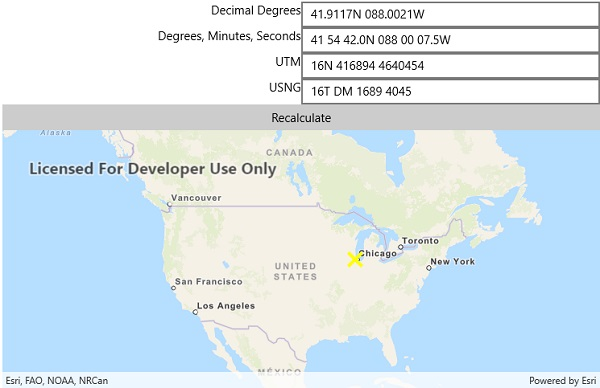
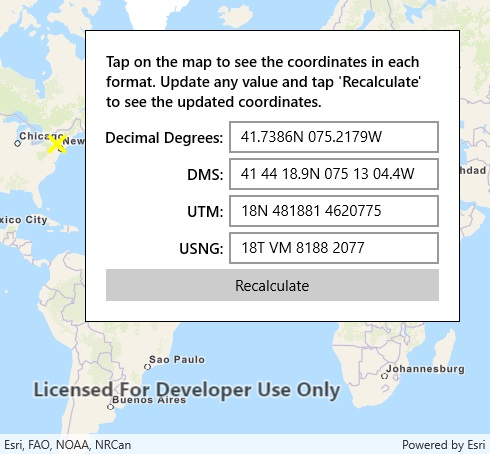
Format coordinates
Changes:

* Improved form alignment.
* Moved controls to a form.
* Added a help label.
* Reformatted XAML.

diff --git a/src/UWP/ArcGISRuntime.UWP.Viewer/Samples/Geometry/FormatCoordinates/FormatCoordinates.xaml b/src/UWP/ArcGISRuntime.UWP.Viewer/Samples/Geometry/FormatCoordinates/FormatCoordinates.xaml
@@ -2,33 +2,70 @@
     x:Class="ArcGISRuntime.UWP.Samples.FormatCoordinates.FormatCoordinates"
     xmlns="http://schemas.microsoft.com/winfx/2006/xaml/presentation"
     xmlns:x="http://schemas.microsoft.com/winfx/2006/xaml"
-    xmlns:mc="http://schemas.openxmlformats.org/markup-compatibility/2006"
-    xmlns:d="http://schemas.microsoft.com/expression/blend/2008"
-    xmlns:esriUI="using:Esri.ArcGISRuntime.UI.Controls"
-    mc:Ignorable="d"
-    d:DesignHeight="300" d:DesignWidth="300">
+    xmlns:esriUI="using:Esri.ArcGISRuntime.UI.Controls">
+    <UserControl.Resources>
+        <Style TargetType="TextBlock">
+            <Setter Property="VerticalAlignment" Value="Center" />
+            <Setter Property="FontWeight" Value="SemiBold" />
+            <Setter Property="HorizontalAlignment" Value="Right" />
+            <Setter Property="Margin" Value="0,5,5,0" />
+        </Style>
+        <Style TargetType="TextBox">
+            <Setter Property="Margin" Value="0,5,0,0" />
+            <Setter Property="TextWrapping" Value="Wrap" />
+            <Setter Property="Width" Value="210" />
+        </Style>
+    </UserControl.Resources>
     <Grid>
-        <Grid.RowDefinitions>
-            <RowDefinition Height="Auto" />
-            <RowDefinition Height="Auto" />
-            <RowDefinition Height="Auto" />
-            <RowDefinition Height="Auto" />
-            <RowDefinition Height="Auto" />
-            <RowDefinition Height="*" />
-        </Grid.RowDefinitions>
-        <Grid.ColumnDefinitions>
-            <ColumnDefinition Width="*" />
-            <ColumnDefinition Width="*" />
-        </Grid.ColumnDefinitions>
-        <TextBlock Grid.Row="0" Grid.Column="0" HorizontalAlignment="Right">Decimal Degrees</TextBlock>
-        <TextBox Grid.Row="0" Grid.Column="1" Tag="Decimal Degrees" x:Name="DecimalDegreesTextField" />
-        <TextBlock Grid.Row="1" Grid.Column="0" HorizontalAlignment="Right">Degrees, Minutes, Seconds</TextBlock>
-        <TextBox Grid.Row="1" Grid.Column="1" Tag="Degrees, Minutes, Seconds" x:Name="DmsTextField" />
-        <TextBlock Grid.Row="2" Grid.Column="0" HorizontalAlignment="Right">UTM</TextBlock>
-        <TextBox Grid.Row="2" Grid.Column="1" Tag="UTM" x:Name="UtmTextField" />
-        <TextBlock Grid.Row="3" Grid.Column="0" HorizontalAlignment="Right">USNG</TextBlock>
-        <TextBox Grid.Row="3" Grid.Column="1" Tag="USNG" x:Name="UsngTextField" />
-        <Button Grid.Row="4" Grid.Column="0" Grid.ColumnSpan="2" HorizontalAlignment="Stretch" Click="RecalculateFields">Recalculate</Button>
-        <esriUI:MapView Grid.Row="5" Grid.Column="0" Grid.ColumnSpan="2" x:Name="MyMapView" />
+        <esriUI:MapView x:Name="MyMapView" />
+        <Border BorderBrush="Black" BorderThickness="1" Background="White"
+                HorizontalAlignment="Right" VerticalAlignment="Top"
+                Margin="30" Padding="20" Width="375">
+            <Grid>
+                <Grid.RowDefinitions>
+                    <RowDefinition Height="Auto" />
+                    <RowDefinition Height="Auto" />
+                    <RowDefinition Height="Auto" />
+                    <RowDefinition Height="Auto" />
+                    <RowDefinition Height="Auto" />
+                    <RowDefinition Height="Auto" />
+                </Grid.RowDefinitions>
+                <Grid.ColumnDefinitions>
+                    <ColumnDefinition Width="*" />
+                    <ColumnDefinition Width="Auto" />
+                </Grid.ColumnDefinitions>
+                <TextBlock
+                    Text="Tap on the map to see the coordinates in each format. Update any value and tap 'Recalculate' to see the updated coordinates."
+                    Grid.Row="0" Grid.Column="0" Grid.ColumnSpan="2"
+                    Margin="0,0,0,5" MaxWidth="400"
+                    HorizontalAlignment="Stretch"
+                    TextWrapping="Wrap" />
+                <TextBlock Text="Decimal Degrees:"
+                           Grid.Row="1" Grid.Column="0" />
+                <TextBox x:Name="DecimalDegreesTextField"
+                         Grid.Row="1" Grid.Column="1"
+                         Tag="Decimal Degrees" />
+                <TextBlock Text="DMS:"
+                           Grid.Row="2" Grid.Column="0" />
+                <TextBox x:Name="DmsTextField"
+                         Grid.Row="2" Grid.Column="1"
+                         Tag="Degrees, Minutes, Seconds" />
+                <TextBlock Text="UTM:"
+                           Grid.Row="3" Grid.Column="0" />
+                <TextBox x:Name="UtmTextField"
+                         Grid.Row="3" Grid.Column="1"
+                         Tag="UTM" />
+                <TextBlock Text="USNG:"
+                           Grid.Row="4" Grid.Column="0" />
+                <TextBox x:Name="UsngTextField"
+                         Grid.Row="4" Grid.Column="1"
+                         Tag="USNG" />
+                <Button Content="Recalculate"
+                        Grid.Row="5" Grid.Column="0" Grid.ColumnSpan="2"
+                        HorizontalAlignment="Stretch"
+                        Margin="0,5,0,0"
+                        Click="RecalculateFields" />
+            </Grid>
+        </Border>
     </Grid>
 </UserControl>
